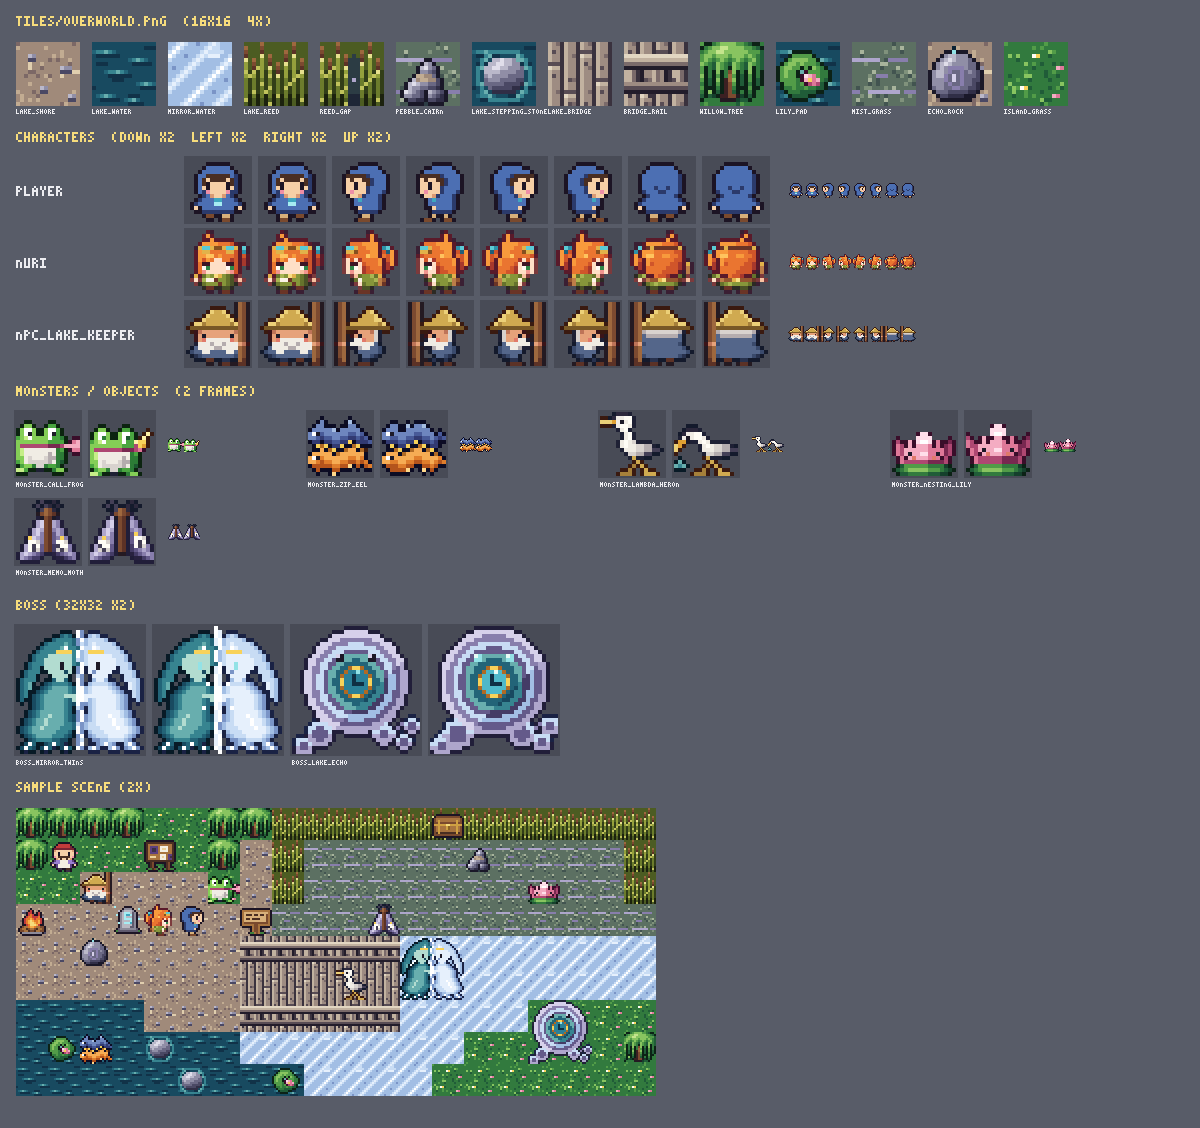
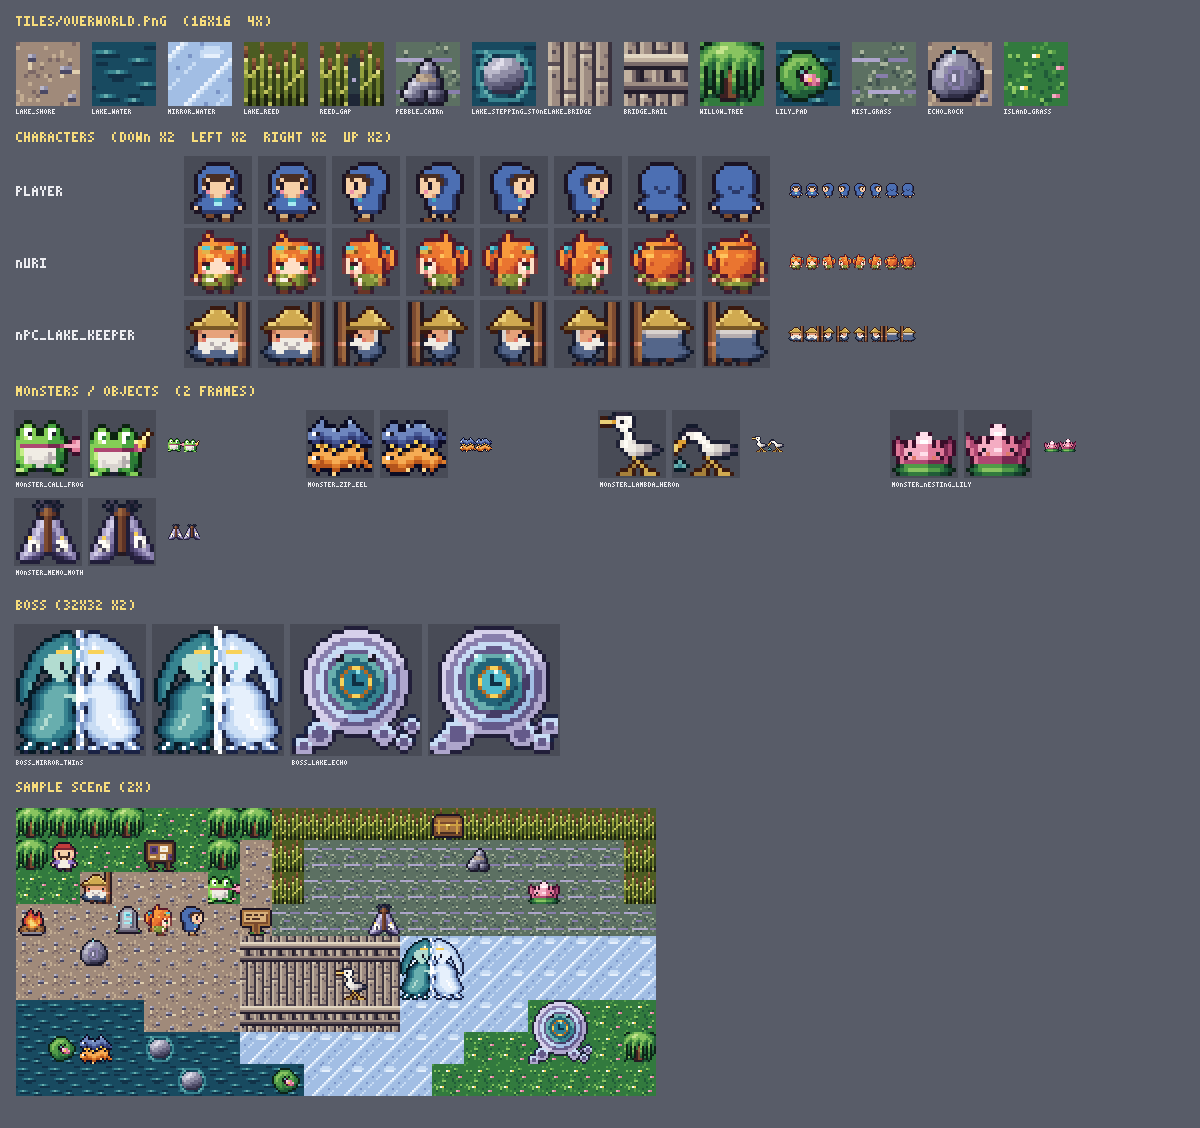
Phase 3 단위 3-6(맵·아트): 거울 수면 반사줄을 차분하게, 물과 거울 수면 경계를 들쭉날쭉하게
- mirror_water: 은빛 반사줄을 한 줄 반으로 줄여 게임 화면에서 덜 어지럽게(여전히 lake_water와 확실히 구별)
- build_r06.py: 구역 경계에서 흐르는 물과 거울 수면이 곧은 세로줄로 갈리지 않게 줄마다 경계를 옮김(물 칸끼리만)

Changed region(s): [[0.2158, 0.8378, 0.555, 0.9929], [0.1233, 0.031, 0.2158, 0.0931]]

diff --git a/tools/maps/build_r06.py b/tools/maps/build_r06.py
@@ -201,8 +201,26 @@ def _lilies(rows: list[str]) -> list[str]:
     return out
 
 
+def _shoreline(rows: list[str]) -> list[str]:
+    """흐르는 물(~)과 거울 수면(m)이 구역 경계에서 곧은 세로줄로 갈리지 않게, 경계를 줄마다 -2~+2칸 들쭉날쭉 옮긴다.
+    물 칸끼리만 바꾸므로(둘 다 막힘) 길은 바뀌지 않는다."""
+    out = [list(r) for r in rows]
+    x = 0
+    for k in range(len(ZONES) - 1):
+        x += len(RAW[k][0])
+        left, right = PAD[k], PAD[k + 1]
+        if left == right:
+            continue
+        for y in range(H):
+            off = (0, 1, 2, 1, 0, -1, -2, -1)[(y * 3 + x) % 8]
+            for xx in range(x - 3, x + 3):
+                if out[y][xx] in "~m":
+                    out[y][xx] = left if xx < x + off else right
+    return ["".join(r) for r in out]
+
+
 RAW = [_block(z, k) for k, z in enumerate(ZONES)]
-ROWS = _lilies(["".join(b[y] for b in RAW) for y in range(H)])
+ROWS = _lilies(_shoreline(["".join(b[y] for b in RAW) for y in range(H)]))
 MAP = "\n".join(ROWS)
 
 # 문자 → (타일 이름, 레이어)

diff --git a/tools/art/lake_tiles.py b/tools/art/lake_tiles.py
@@ -72,15 +72,13 @@ def _mirror():
     for y in range(16):
         for x in range(16):
             d = (x + y) % 16
-            if d in (3,):
-                g[y][x] = 6 if y % 5 else 5
-            elif d in (2, 4):
+            if d == 3:
+                g[y][x] = 6 if y % 6 == 1 else 5
+            elif d == 4:
                 g[y][x] = 4
-            elif d == 11:
-                g[y][x] = 5
-            elif d in (10, 12):
+            elif d == 11 and y % 4 != 0:
                 g[y][x] = 4
-            elif d == 7 and y % 3 == 0:
+            elif d == 8 and y % 3 == 0:
                 g[y][x] = 2
     # 거꾸로 비친 구름(아래가 둥근 반사)
     cloud = [(9, 1, 4), (8, 2, 6), (9, 3, 4)]
